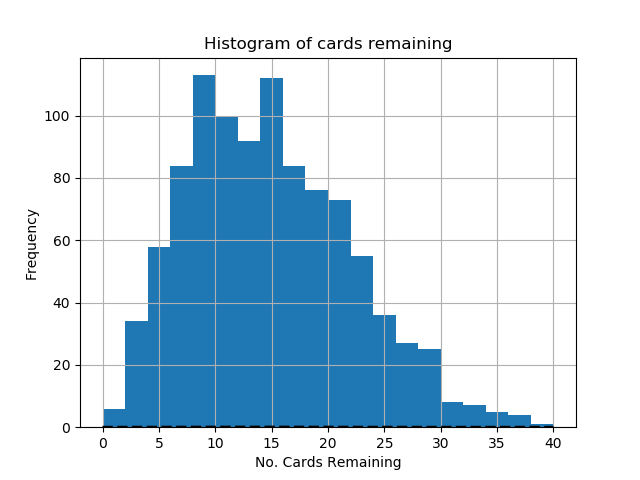
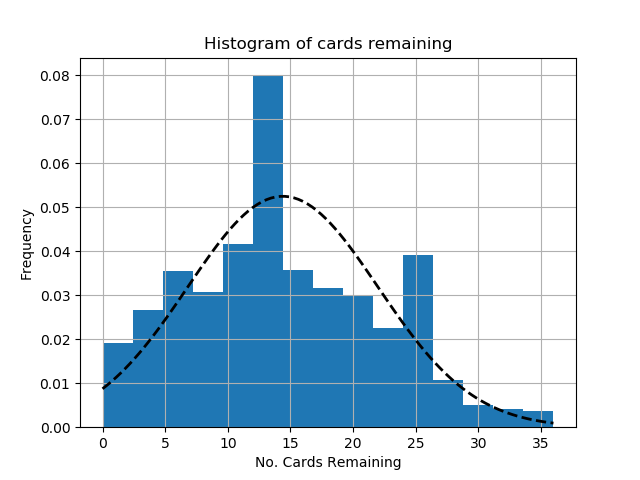
best fit

diff --git a/p5.py b/p5.py
@@ -73,7 +73,7 @@ print( "Sample standard deviation of remaining cards: ", stdev(rem) )
     
 #(mu, sigma) = norm.fit(rem)
 
-n, bins, patches = plt.hist(rem, bins='auto')
+n, bins, patches = plt.hist(rem, bins='auto', normed=True)
 #y = mlab.normpdf(bins, mean(rem), stdev(rem)**2)
 avg = mean(rem)
 var= stdev(rem)**2
